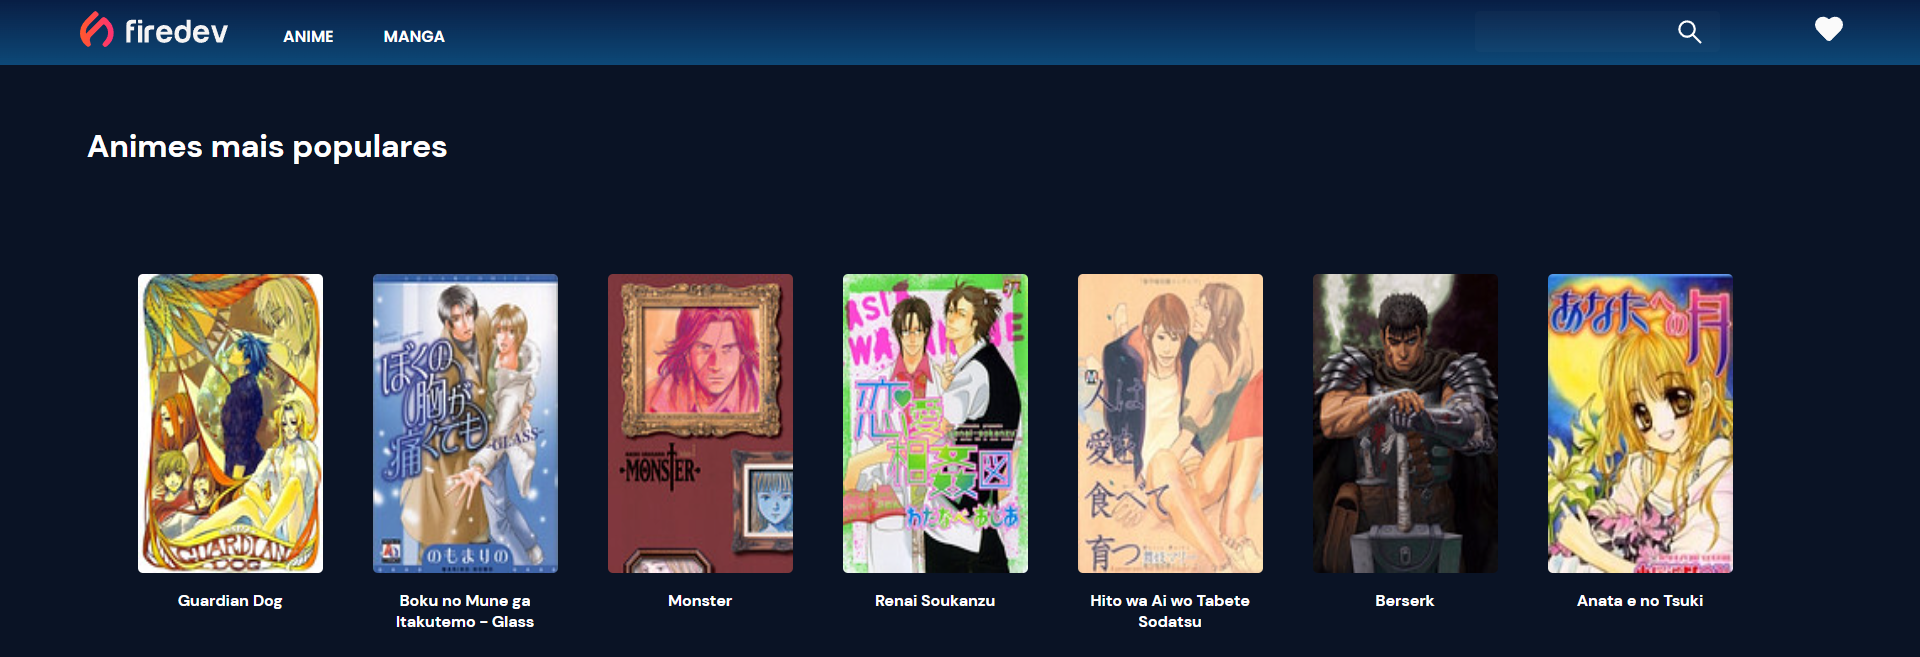
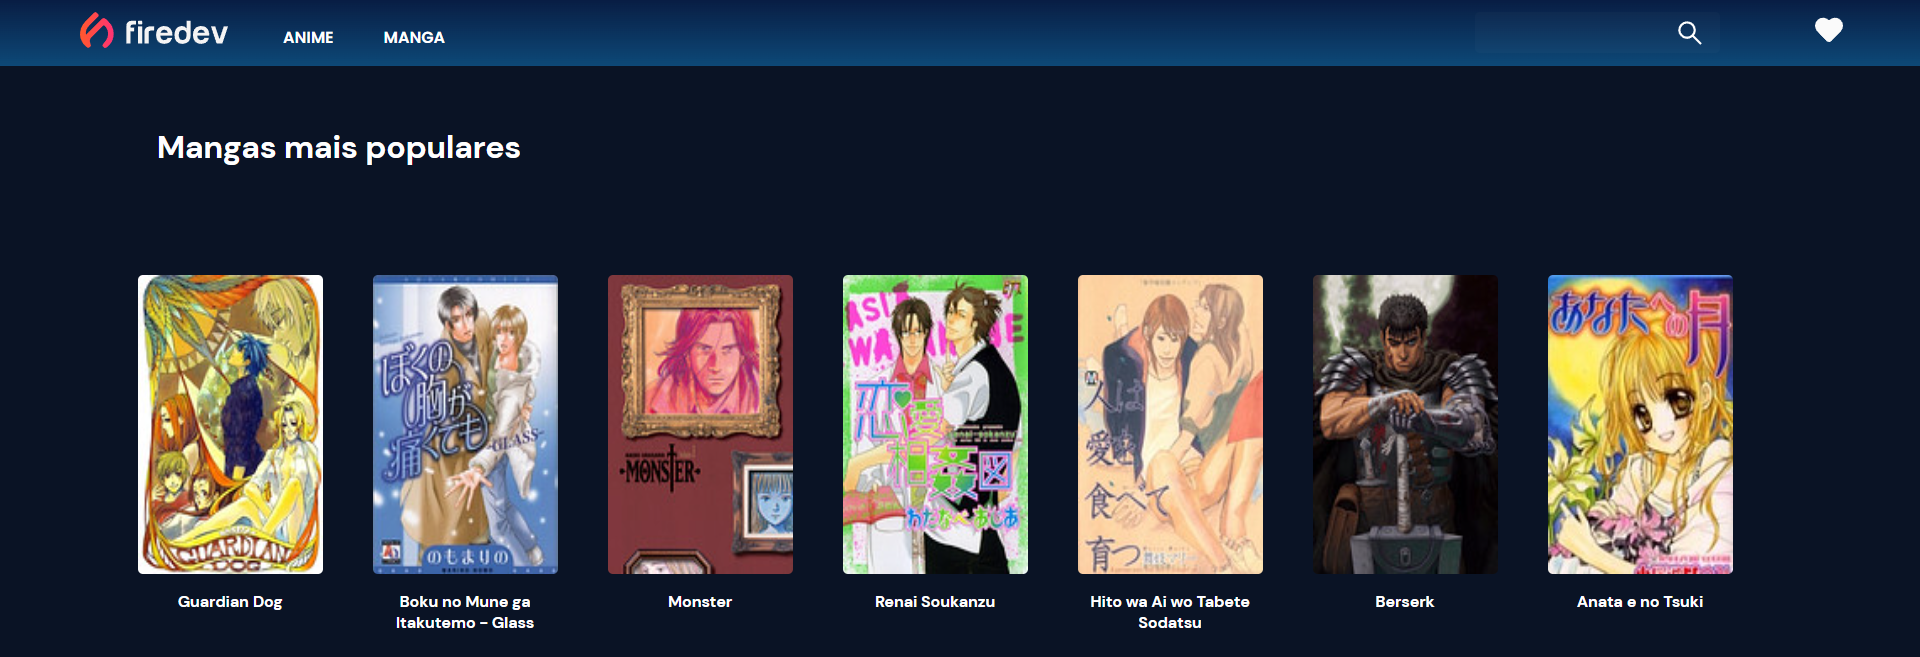
Adjusted the print of the images

diff --git a/src/pages/Manga/index.tsx b/src/pages/Manga/index.tsx
@@ -38,7 +38,7 @@ const Manga = ({input}: any) => {
     return (
         <S.MangaContainer>
             <S.Title>
-                Animes mais populares
+                Mangas mais populares
             </S.Title>
             <S.CardsManga>
                 {mangaData.map((item) => {
